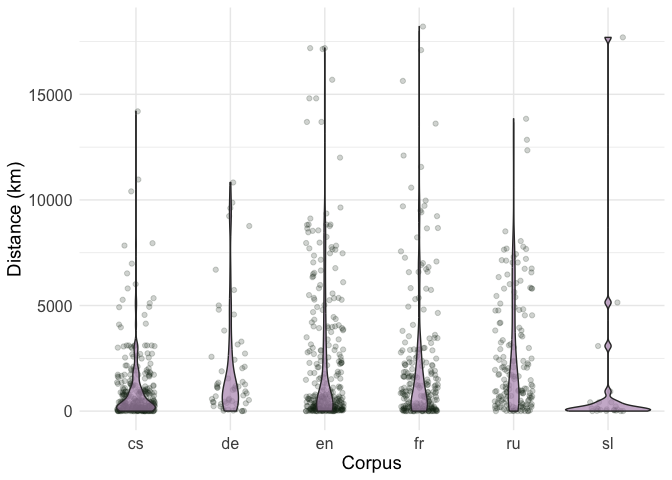
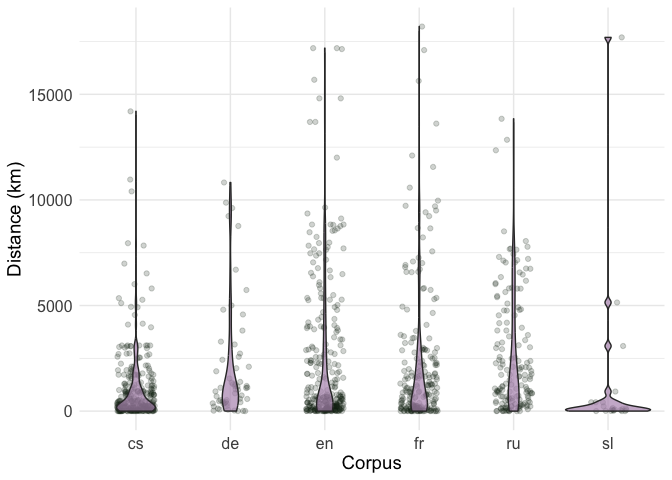
minor upd scr 01

diff --git a/scr/01_geodata_directions.md b/scr/01_geodata_directions.md
@@ -1,6 +1,6 @@
 # 01 geodata exploration
 
-## Explore directions of from_to formula
+# Explore directions of from_to formula
 
 Read data as a table (flatted & merged json-s)
 
@@ -46,7 +46,7 @@ formulas <- formulas %>%
 
 N formulas per language
 
-### MF loc vs from_to loc
+## Most freq loc vs from_to loc
 
 Look if most most freq locations also appear in from_to formula
 
@@ -131,7 +131,7 @@ It’s a long table, just some observations:
     -   most locs are some within Sl I guess + mostly single counts in
         from_to
 
-## distances
+## Distances
 
 I calculated Haversine (bird/plane flight) distance between the
 from-\>to coordinates, the distance is in km.
@@ -164,9 +164,7 @@ head(formulas_d %>% select(lang, text, from_placename, to_placename, dist_havers
     5 cs    Od Hor Kuten veden k Praze    Kutná Hora     Prague                62.5 
     6 cs    od Baltu až k Adrii           Baltic Sea     Adriatic Sea        1725.  
 
-### analysis
-
-#### overall
+### distribution
 
 Poet’s mind is often flying not that far away?
 
@@ -351,7 +349,7 @@ So I guess the takeouts are:
 
 How distances are related to the types of locations in from-to formula?
 
-#### Overview
+### Overview
 
 total
 
@@ -462,7 +460,7 @@ Notes:
 
 -   villages & city parts are for short distances
 
-#### By language
+#### by language
 
 <table>
 <colgroup>
@@ -611,16 +609,16 @@ unique (sampled example)
     # A tibble: 10 × 7
        lang  type_pair    text  from_placename to_placename dist_type dist_haversine
        <chr> <chr>        <chr> <chr>          <chr>        <chr>              <dbl>
-     1 cs    ancient cit… z Tr… Troy           Italy        long              1183. 
-     2 sl    ancient cit… Od O… Aquileia       Triglav      short               77.2
-     3 de    region --> … Von … Sinai Peninsu… Thebes       short              438. 
-     4 ru    default -->… От К… Kyakhulay      Athens       long              2079. 
-     5 en    region --> … From… Mani Peninsula Thracia      short              661. 
-     6 de    ancient cit… Von … Cyrrhus        Rhine        long              2574. 
-     7 en    ancient cit… from… Babylon        Egypt        long              1611. 
-     8 en    ancient cit… from… Nicaea         River Trent  long              2707. 
-     9 cs    ancient cit… Od A… Athens         Delphi       short              121. 
-    10 fr    region --> … de G… Gilead         Sodom        short              154. 
+     1 fr    default -->… D' O… Assyrian Empi… Sheba        long             2301.  
+     2 fr    strait (wat… de l… Dardanelles    Cumae        long             1046.  
+     3 en    mountain --… From… Mount Carmel   Ptolemais    long             1318.  
+     4 fr    region --> … d' É… Epirus         Aetna        short             538.  
+     5 cs    ancient cit… Od A… Athens         Delphi       short             121.  
+     6 fr    ancient cit… De M… Memphis        Moscow       long             2927.  
+     7 en    city --> an… From… Beersheba      Dan          short             236.  
+     8 fr    ancient cit… de T… Thebes         Mantineia    long             1638.  
+     9 ru    ancient sit… из В… Bethany        Jerusalem    short               3.49
+    10 en    city --> an… From… Beersheba      Dan          short             236.  
 
 ### city parts
 
@@ -674,7 +672,9 @@ unique (sampled example)
     15 ru    Zemlyanoy Val Street     3
     16 ru    Sparrow Hills            2
 
-### from-to places
+## Places frequency
+
+### from-to formulas
 
 Just lists of real places, I’m not sure we need to think about this now
 (not too many observations also)
@@ -876,6 +876,81 @@ Filter n \> 3 !
     17 ru    Saint Petersburg city         4
     18 ru    Western Bug      river        4
 
+### most freq places in general
+
+General frequencies (highly dependent on N formulas from a language)
+
+             placename  n rank_freq
+    1  Bohemian Forest 47         1
+    2            Paris 28         2
+    3             Rome 28         3
+    4           Prague 26         4
+    5           Danube 24         5
+    6            Rhine 23         6
+    7       Baltic Sea 22         7
+    8  Tatra Mountains 20         8
+    9           Moscow 16         9
+    10    Adriatic Sea 15        10
+    11           Tiber 15        11
+    12           Volga 15        12
+    13            Alps 14        13
+    14         Moravia 14        14
+    15            Nile 14        15
+    16          Ganges 13        16
+    17 Giant Mountains 13        17
+    18     Tagus River 13        18
+    19           Egypt 12        19
+    20            Neva 12        20
+
+Placenames mentioned in all corpora + frequency
+
+                  placename           type n_corpora rank_corpora freq_abs
+    1  Carpathian Mountains       mountain         6            1       10
+    2                 Paris           city         6            2       28
+    3                 Rhine          river         6            3       23
+    4                  Rome           city         6            4       28
+    5                 Tiber          river         6            5       15
+    6                Athens   ancient city         5            6        7
+    7            Baltic Sea            sea         5            7       22
+    8                 Cairo           city         5            8        9
+    9                Danube          river         5            9       24
+    10            Euphrates          river         5           10        8
+    11               Ganges          river         5           11       13
+    12                 Nile          river         5           12       14
+    13          Tagus River          river         5           13       13
+    14                 Alps       mountain         4           14       14
+    15                 Asia      continent         4           15        5
+    16              Babylon   ancient city         4           16        7
+    17            Bethlehem           city         4           17        8
+    18          Dardanelles strait (water)         4           18        6
+    19                  Don          river         4           19        8
+    20                Egypt        country         4           20       12
+       rank_freq
+    1         23
+    2          2
+    3          6
+    4          3
+    5         11
+    6         41
+    7          7
+    8         28
+    9          5
+    10        36
+    11        16
+    12        15
+    13        18
+    14        13
+    15        61
+    16        42
+    17        31
+    18        55
+    19        33
+    20        19
+
+    [1] 0.557551
+
+------------------------------------------------------------------------
+
 test maps
 
 ``` r
@@ -941,8 +1016,6 @@ ggplot(world) +
                   aes(x = longitude, y = latitude, label = placename), 
                   size = 2.5, col = "black", fontface = "bold") 
 ```
-
-#### temporal
 
 ``` r
 dist_t_summary %>% 
